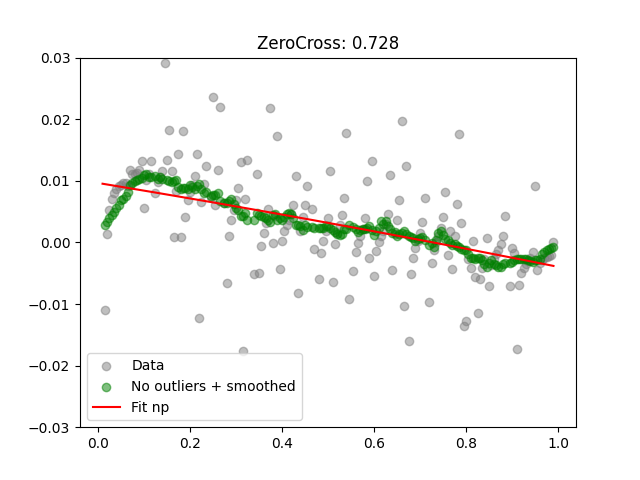
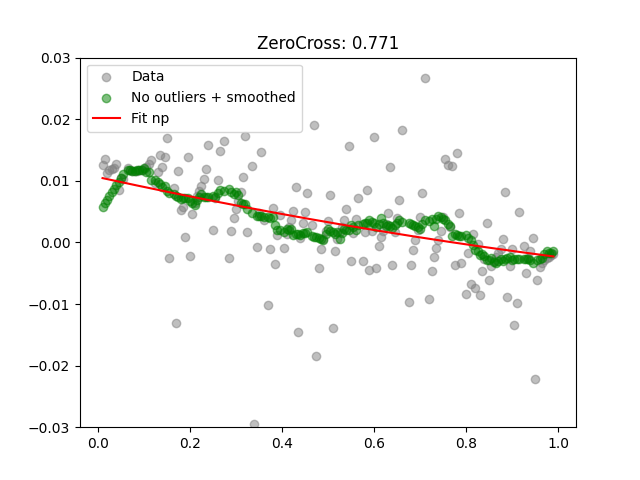
Set part2 window between estFaultIncepTime estFaultStableTime

diff --git a/RELOPEC_algorithm.py b/RELOPEC_algorithm.py
@@ -248,7 +248,7 @@ if __name__=="__main__":
                 Vabc[-1] = V
                 tabc[-1] = t
 
-                if len(tabc_full) <= 800:
+                if len(tabc_full) <= 900:
                     # Append data to full array if not full yet
                     Iabc_full = np.vstack((Iabc_full, I))
                     Vabc_full = np.vstack((Vabc_full, V))
@@ -292,25 +292,24 @@ if __name__=="__main__":
             # plt.plot(tabc_full, Vabc_full[:,0])
             # plt.plot(tn, V_trans[0])
             # plt.show()
-            # start = np.argwhere(tn>=estFaultStableTime-0.04)[0][0]
-            # stop = np.argwhere(tn>=estFaultStableTime+0.001)[0][0]
-            # tn = tn[start:stop]
-            # V_trans = V_trans[:,start:stop]
-            # I_trans = I_trans[:,start:stop]
+            start = np.argwhere(tn>=estFaultIncepTime)[0][0]
+            tn = tn[start:]
+            V_trans = V_trans[:,start:]
+            I_trans = I_trans[:,start:]
 
             plt.plot(tabc_full, Vabc_full[:,0])
             plt.plot(tn, V_trans[0])
             plt.show()
 
             print("Start fault detection")
-            # pool = mp.Pool(processes=mp.cpu_count(), initializer=findFaultInit, initargs=(I_trans, V_trans, k, tn, estFaultType, estFaultStableTime))
-            # LfFictArray = pool.map(findFault, np.arange(0,len(k)))
+            pool = mp.Pool(processes=mp.cpu_count(), initializer=findFaultInit, initargs=(I_trans, V_trans, k, tn, estFaultType, estFaultStableTime))
+            LfFictArray = pool.map(findFault, np.arange(0,len(k)))
 
-            for n in np.arange(0,len(k)-1,1):
-                vF,i2,X=myFunctionCalcNetwork.NetworkParamNoCap(I_trans,V_trans,k[n],L_line,R_line,C_line,Ts,tn,Lg,Rg)
-                LfFict,RfFict,ZfFict=myFunctionCalcFaultLocation.Fault(vF,i2,X,Ts,tn,estFaultType,estFaultStableTime)
-                LfFictArray[n]=LfFict
-                print(n)
+            # for n in np.arange(0,len(k)-1,1):
+            #     vF,i2,X=myFunctionCalcNetwork.NetworkParamNoCap(I_trans,V_trans,k[n],L_line,R_line,C_line,Ts,tn,Lg,Rg)
+            #     LfFict,RfFict,ZfFict=myFunctionCalcFaultLocation.Fault(vF,i2,X,Ts,tn,estFaultType,estFaultStableTime)
+            #     LfFictArray[n]=LfFict
+            #     print(n)
 
             # Find zero crossing and hence the distance to the fault
             print("Find zero cross")

diff --git a/myFunctionCalcFaultLocation.py b/myFunctionCalcFaultLocation.py
@@ -66,6 +66,8 @@ def Fault(vF=None,i2=None,X=None,Ts=None,tn=None,FaultType=None,estFaultStableTi
 
     # Find the overal inducance and resistance by taking the average over one period (0.02 seconds for 50 hertz) this step requires us to know the time of fault inception
     index1=np.argwhere(tn >= estFaultStableTime - 0.02)
+    if(index1[0][0] == 0 ):
+        print("Choose a bigger window")
     index2=np.argwhere(tn >= estFaultStableTime)
 
     LfFict=np.mean(ZfFict[0,index1[0][0]:index2[0][0]])
@@ -78,7 +80,8 @@ def smooth(y, box_pts):
     return y_smooth 
 
 def removeOutliers(x, y):
-    y = np.array(y[:,0])
+    # y = np.array(y[:,0])
+    y = np.array(y)
     x = np.array(x)
     mean = np.mean(y)
     standard_deviation = np.std(y)
